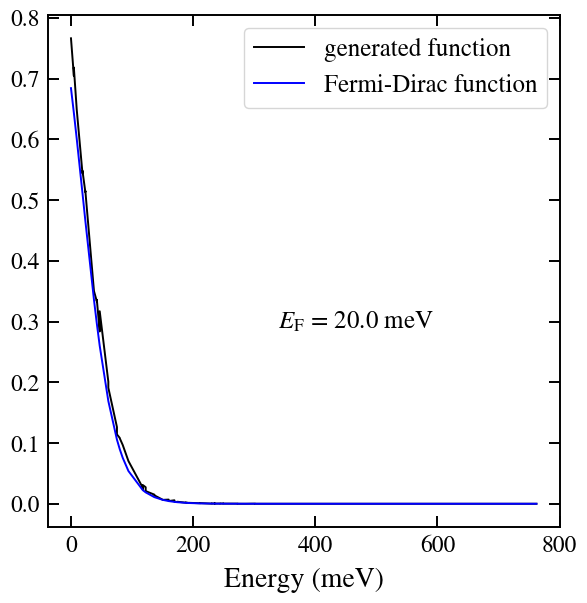
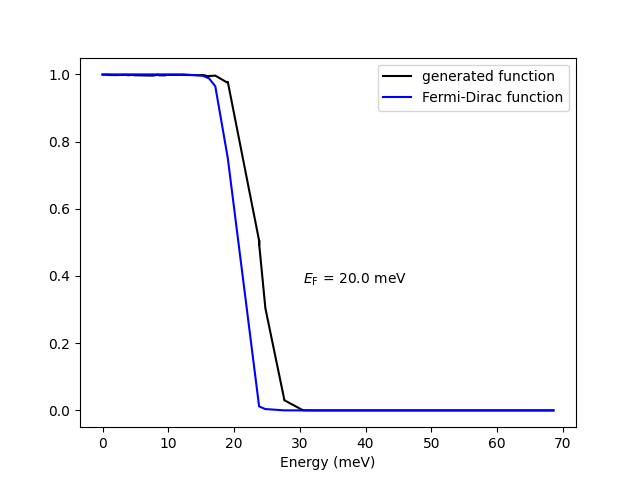
edited initial generater

diff --git a/22_FermiDst_init_2D.py b/22_FermiDst_init_2D.py
@@ -6,7 +6,9 @@ from scipy.constants import e, hbar, m_e
 from scipy.constants import k as k_b
 from scipy.integrate import quad
 
+# T is quite low, simulated T=10
 E_F_arr = [10e-3, 20e-3, 30e-3, 50e-3]
+k_max_arr = [3e8, 3e8, 4e8, 4e8]
 
 def func(i):
     m_star = 0.1 * m_e  # effective mass (kg)
@@ -14,14 +16,20 @@ def func(i):
     kT = k_b * T / e  # thermal energy (eV)
     E_F = E_F_arr[i] # Fermi level (eV)
 
-    num_e = int(4e5)  # number of electrons
-    partition = int(15) # this must be odd number
+    num_e = int(2e5)  # number of electrons
+    partition = int(13) # this must be odd number
     g_s = 2 # spin factor
+    k_max = int(k_max_arr[i])
 
     dos2d = m_star / (np.pi * hbar**2) * e  # density of states (/m2 eV)
     '''N_e = dos2d * kT * np.log(1 + np.exp(E_F / kT))  # electron density (/m2)'''
     E_max = np.amax([E_F, 0]) + 20 * kT  # cut-off energy (eV)
     N_e = dos2d * (E_max - kT * np.log((1+np.exp((E_max-E_F)/kT)) / (1+np.exp((-E_F)/kT))))
+
+    f_k = np.zeros((partition, partition)) # f(k) should be updated periodically
+    k_delta = k_max / (partition - 1)
+
+    alpha = (2*np.pi)**2 * N_e / (g_s * num_e * (2 * k_max/partition)**2)
 
     def krandom(ksquared):
         k_abs = np.sqrt(ksquared)
@@ -41,19 +49,31 @@ def func(i):
             df_val = rand()
             df_true = 1 / (1 + np.exp((E_val - E_F) / kT))
             if df_val < df_true:
-                return E_val
+                k_val = Etok(E_val)
+                x_index, y_index = get_fk_index(k_val)
+                if rand() < 1 - f_k[y_index][x_index]:
+                    f_k[y_index][x_index] += alpha
+                    return k_val
 
     def FD(E):
         return 1 / (1 + np.exp((E - E_F) / kT))
+
+    def get_fk_index(k):
+        k_x = k[0] + partition * k_delta
+        k_y = k[1] + partition * k_delta
+        x_index = int(k_x / (2.0 * k_delta))
+        y_index = int(k_y / (2.0 * k_delta))
+        return x_index, y_index
+
 
     ### generate the initial thermal distribution
 
     k_ini = []
     for i in range(num_e):
-        k_ini.append(Etok(ene_thd()))
+        k_ini.append(ene_thd())
     k_arr = np.array(k_ini)
     k_arr = k_arr.T # k_arr : k_x, k_y values of each electrons
-
+    '''
     k_max = -0.1
     for i in range(len(k_arr[0])):
         k_max = max(k_max,max(abs(k_arr[0][i]),abs(k_arr[1][i])))
@@ -63,17 +83,19 @@ def func(i):
     k_max_b = int(k_max_str[0]) + 1
     k_max = k_max_b * (10**(len(k_max_str) - 1))
     k_max = float(k_max)
+    '''
+    
 
-    f_k = np.zeros((partition, partition)) # f(k) should be updated periodically
-    k_delta = k_max / (partition - 1)
 
-    alpha = (2*np.pi)**2 * N_e / (g_s * num_e * (2 * k_max/partition)**2)
+    '''
     for i in range(len(k_arr[0])):
         k_x = k_arr[0][i] + partition * k_delta
         k_y = k_arr[1][i] + partition * k_delta
         x_index = int(k_x / (2.0 * k_delta))
         y_index = int(k_y / (2.0 * k_delta))
         f_k[y_index][x_index] += alpha
+    '''
+    
 
     # generate f(E) from f_k
 
@@ -97,8 +119,8 @@ def func(i):
     FD_E_arr = FD_E_arr[np.argsort(FD_E_arr[:, 0])]
 
     E0 = 1e-3   # unit of energy
-
-    plt.style.use('scientific')
+    '''plt.style.use('scientific')'''
+    
     fig, ax = plt.subplots()
     ax.text(0.45, 0.40, r'$E_{\rm F}$ = ' + f'${E_F * 1e3}$ meV',
                 ha='left', va='center', transform=ax.transAxes)

diff --git a/19_thd_deg_init.py b/19_thd_deg_init.py
@@ -10,11 +10,11 @@ from scipy.constants import e, hbar, m_e
 from scipy.constants import k as k_b
 from scipy.integrate import quad
 
-E_F_arr = [100e-3, 50e-3, 10e-3, 0, -10e-3, -50e-3, -100e-3]
+E_F_arr = [50e-3]
 
 def thd_init(i):
     m_star = 0.1 * m_e
-    T = 300
+    T = 10
     E_F_eV = E_F_arr[i]
     E_F = E_F_eV * e # Fermi energy
     # Electron density corresponding to Fermi energy
